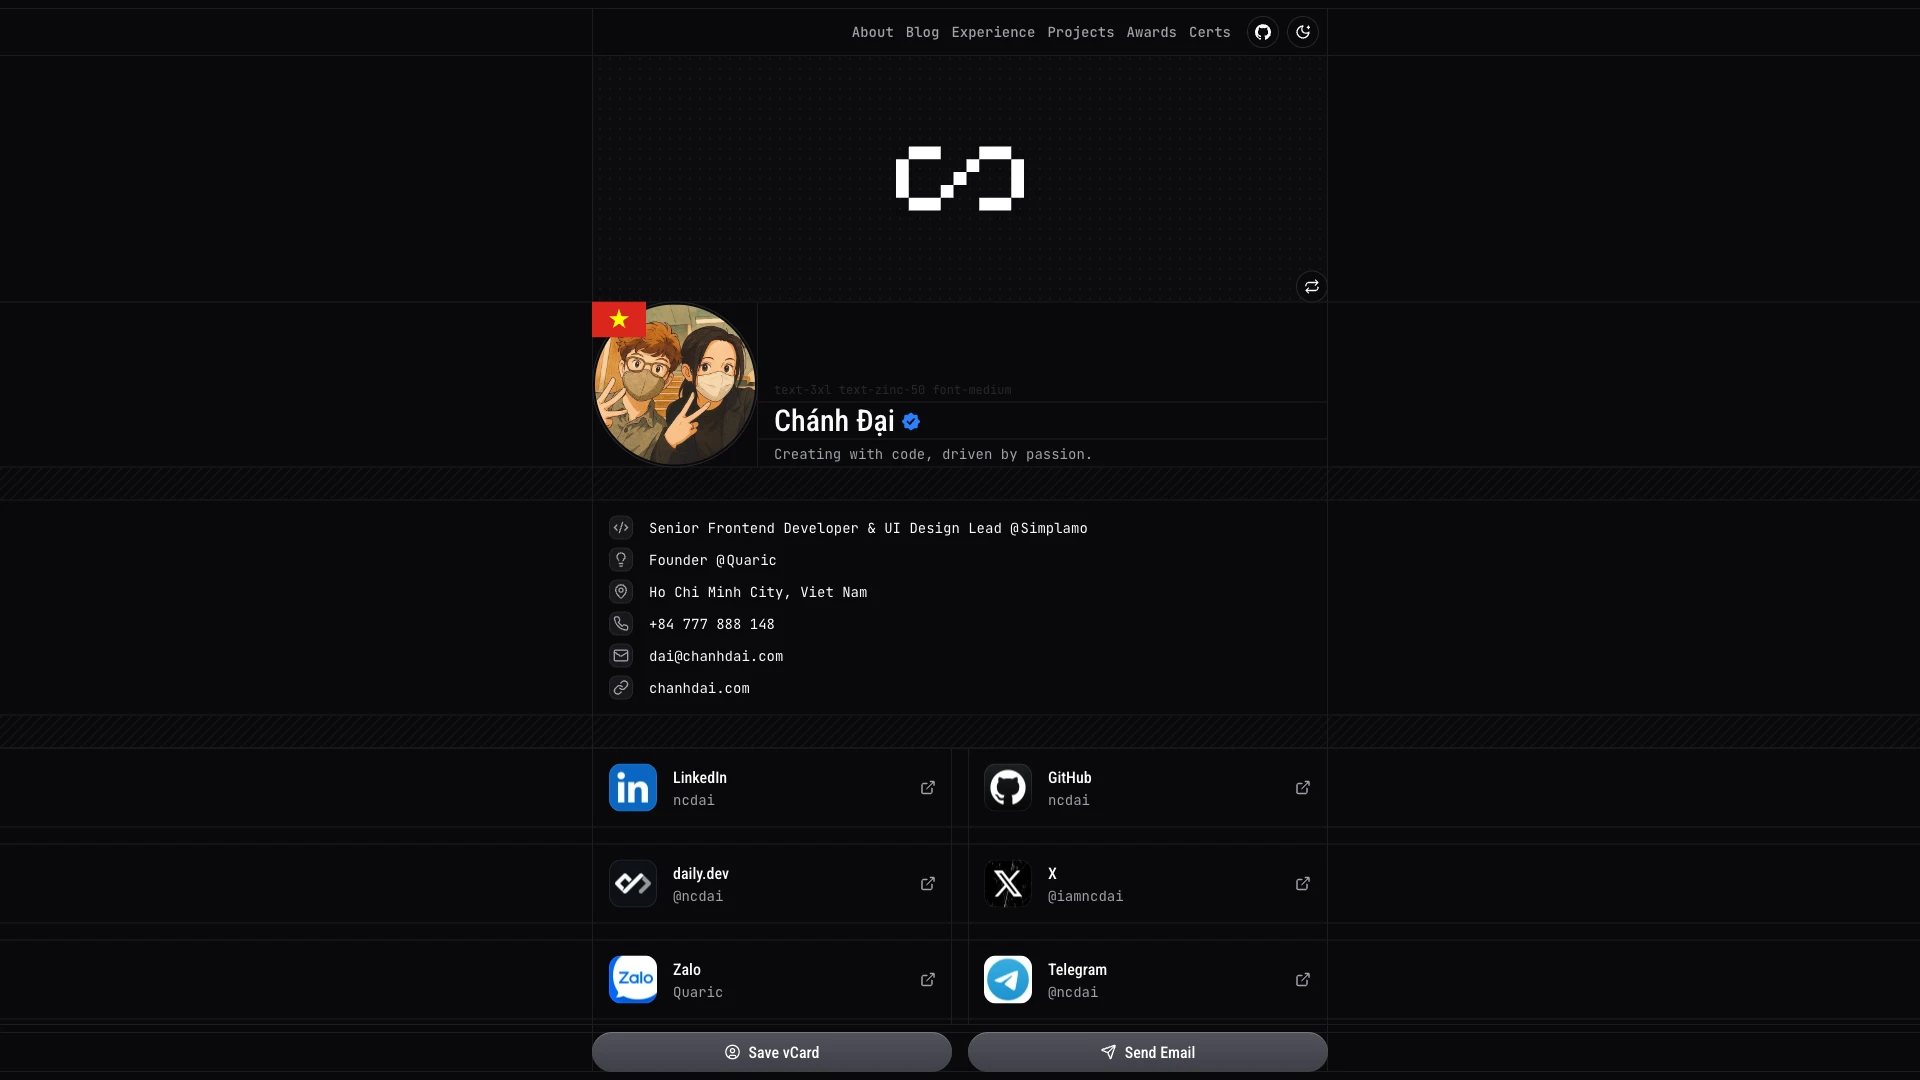
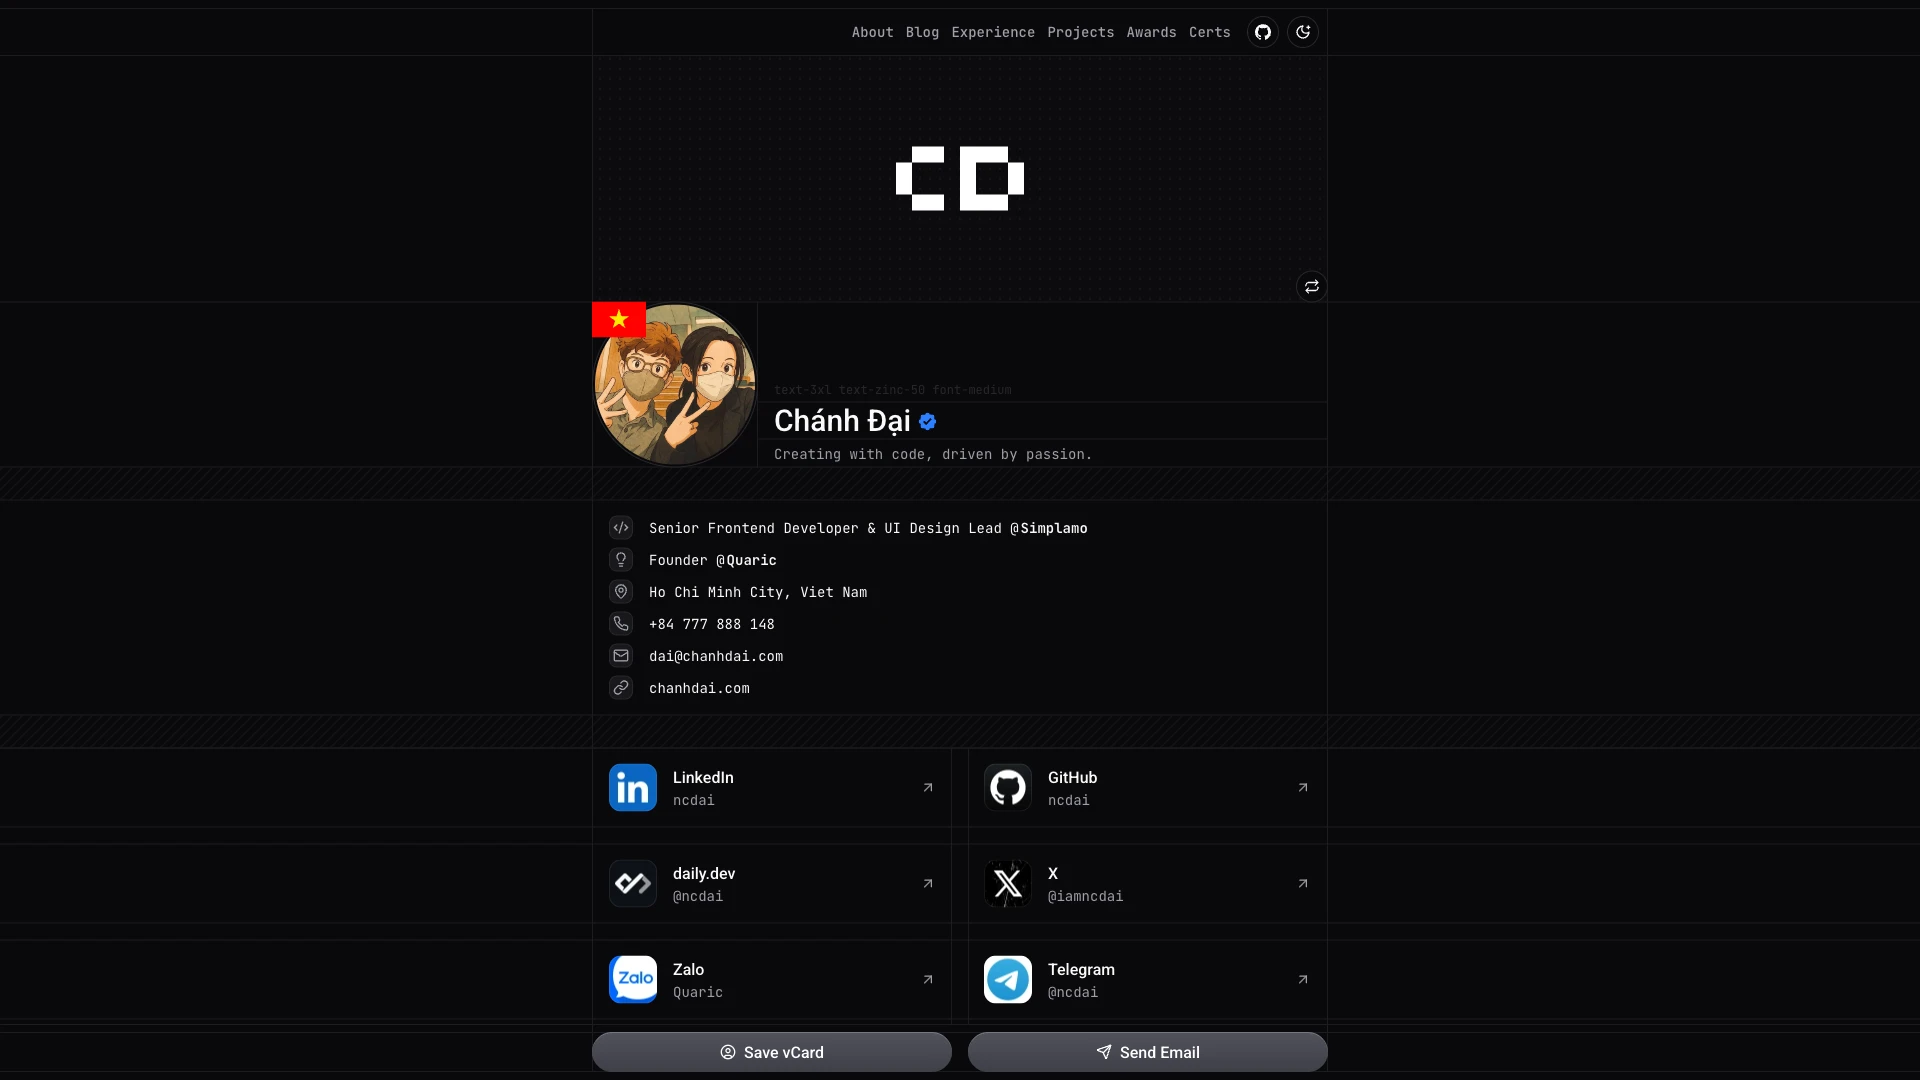
refactor(assets): update image assets for improved quality and consistency
Replace various image files with updated versions to enhance visual
quality and ensure consistency across the application. This includes
updating SVGs for better scalability and replacing outdated image
formats with more efficient ones.

fix(components): remove unused ChanhDaiWordmark component

Remove the ChanhDaiWordmark component as it is no longer used in the
application. This helps in reducing code clutter and potential
confusion.

fix(blog): update welcome blog post image reference

Change the image reference in the welcome blog post to reflect the
updated image asset, ensuring the correct image is displayed.

fix(profile): update company logo reference to SVG format

Change the company logo reference from a .webp to a .svg format for
better scalability and consistency with other image assets.

diff --git a/src/components/chanhdai-mark.tsx b/src/components/chanhdai-mark.tsx
@@ -3,12 +3,12 @@ export function ChanhDaiMark(props: React.ComponentProps<"svg">) {
     <svg
       xmlns="http://www.w3.org/2000/svg"
       fill="none"
-      viewBox="0 0 640 320"
+      viewBox="0 0 512 256"
       {...props}
     >
       <path
-        d="M192 0H224V64H192V0ZM64 0H192V64H64V0ZM0 64H64V256H0V64ZM64 256H192V320H64V256ZM192 256H224V320H192V256ZM224 192H288V256H224V192ZM288 128H352V192H288V128ZM352 64H416V128H352V64ZM416 0H448V64H416V0ZM448 0H576V64H448V0ZM576 64H640V256H576V64ZM448 256H576V320H448V256ZM416 256H448V320H416V256Z"
         fill="currentColor"
+        d="M192 256H64v-64h128v64ZM448 64H320v128h128v64H256V0h192v64ZM64 192H0V64h64v128ZM512 192h-64V64h64v128ZM192 64H64V0h128v64Z"
       />
     </svg>
   );

diff --git a/src/features/profile/components/chanhdai-cover-grid/logo-resize-animation.tsx b/src/features/profile/components/chanhdai-cover-grid/logo-resize-animation.tsx
@@ -3,7 +3,7 @@
 import { motion } from "motion/react";
 import { useState } from "react";
 
-import { ChanhDaiWordmark } from "@/components/chanhdai-wordmark";
+import { ChanhDaiMark } from "@/components/chanhdai-mark";
 
 const variants = {
   show: {
@@ -65,7 +65,7 @@ export function LogoResizeAnimation({
         {Math.round(width)}x{Math.round(width / 2)}
       </motion.div>
 
-      <ChanhDaiWordmark className="size-full text-black dark:text-white" />
+      <ChanhDaiMark className="size-full text-black dark:text-white" />
     </motion.div>
   );
 }

diff --git a/src/features/profile/data/experiences.ts b/src/features/profile/data/experiences.ts
@@ -59,7 +59,7 @@ export const EXPERIENCES: Experience[] = [
   },
   {
     company: "Quaric Co., Ltd.",
-    companyLogo: "/images/companies/quaric.webp",
+    companyLogo: "/images/companies/quaric.svg",
     positions: [
       {
         id: "30d3a9fb-021d-452a-9d27-83655369b4b9",
